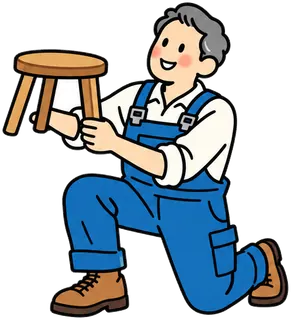
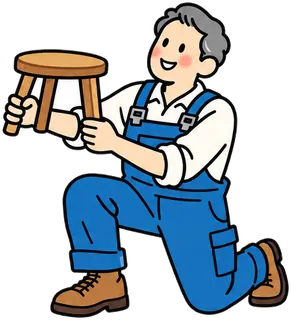
椅子を支える右手を修正し背景画像を優先して読み込む

diff --git a/index.html b/index.html
@@ -1000,6 +1000,7 @@ a.home-detail-link:hover .detail-arrow{transform:translateX(4px);background:var(
 @media(prefers-reduced-motion:reduce){.actor-face{transition:none}}
 
 </style>
+<link rel="preload" as="image" type="image/avif" href="assets/illustrations/hero-toyama-sm.avif" media="(max-width:700px)">
 </head>
 <body data-nav="B">
 <a class="skip-link" href="#main">本文へスキップ</a>
@@ -1047,10 +1048,10 @@ a.home-detail-link:hover .detail-arrow{transform:translateX(4px);background:var(
 <section class="hero" id="top">
   <div class="hero-stage">
     <div class="hero-scene" aria-hidden="true">
-      <picture class="hero-town"><source media="(max-width:700px)" type="image/avif" srcset="assets/illustrations/hero-toyama-sm.avif"><source type="image/avif" srcset="assets/illustrations/hero-toyama.avif"><source media="(max-width:700px)" type="image/webp" srcset="assets/illustrations/hero-toyama-sm.webp"><img src="assets/illustrations/hero-toyama.webp" width="1920" height="640" alt="" decoding="async" loading="lazy"></picture>
+      <picture class="hero-town"><source media="(max-width:700px)" type="image/avif" srcset="assets/illustrations/hero-toyama-sm.avif"><source type="image/avif" srcset="assets/illustrations/hero-toyama.avif"><source media="(max-width:700px)" type="image/webp" srcset="assets/illustrations/hero-toyama-sm.webp"><img src="assets/illustrations/hero-toyama.webp" width="1920" height="640" alt="" decoding="async" loading="eager" fetchpriority="high"></picture>
       <div class="hero-actor actor-seated" style="--person-ratio:462/567"><picture class="hero-media"><source media="(max-width:700px)" type="image/avif" srcset="assets/illustrations/hero-crowd-seated-sm.avif"><source type="image/avif" srcset="assets/illustrations/hero-crowd-seated.avif"><source media="(max-width:700px)" type="image/webp" srcset="assets/illustrations/hero-crowd-seated-sm.webp"><img class="actor-sprite" src="assets/illustrations/hero-crowd-seated.webp" width="462" height="567" alt="" decoding="async" loading="lazy"></picture><img class="actor-face" src="assets/illustrations/hero-face-seated.webp" width="55" height="63" alt="" decoding="async" loading="lazy" style="left:29.653679653679653%;top:10.582010582010582%;width:11.904761904761903%;height:11.11111111111111%;border-radius:35%"></div>
       <div class="hero-actor actor-wave" style="--person-ratio:421/640"><picture class="hero-media"><source media="(max-width:700px)" type="image/avif" srcset="assets/illustrations/hero-crowd-wave-sm.avif"><source type="image/avif" srcset="assets/illustrations/hero-crowd-wave.avif"><source media="(max-width:700px)" type="image/webp" srcset="assets/illustrations/hero-crowd-wave-sm.webp"><img class="actor-sprite" src="assets/illustrations/hero-crowd-wave.webp" width="421" height="640" alt="" decoding="async" loading="lazy"></picture><img class="actor-face" src="assets/illustrations/hero-face-wave.webp" width="57" height="62" alt="" decoding="async" loading="lazy" style="left:34.204275534441805%;top:16.25%;width:13.539192399049881%;height:9.6875%;border-radius:35%"></div>
-      <div class="hero-actor actor-kneel" style="--person-ratio:504/555"><picture class="hero-media"><source media="(max-width:700px)" type="image/avif" srcset="assets/illustrations/hero-crowd-kneel-sm.avif"><source type="image/avif" srcset="assets/illustrations/hero-crowd-kneel.avif"><source media="(max-width:700px)" type="image/webp" srcset="assets/illustrations/hero-crowd-kneel-sm.webp"><img class="actor-sprite" src="assets/illustrations/hero-crowd-kneel.webp" width="504" height="555" alt="" decoding="async" loading="lazy"></picture><img class="actor-face" src="assets/illustrations/hero-face-kneel.webp" width="57" height="66" alt="" decoding="async" loading="lazy" style="left:53.96825396825397%;top:10.45045045045045%;width:11.30952380952381%;height:11.891891891891893%;border-radius:35%"></div>
+      <div class="hero-actor actor-kneel" style="--person-ratio:505/555"><picture class="hero-media"><source media="(max-width:700px)" type="image/avif" srcset="assets/illustrations/hero-crowd-kneel-sm.avif"><source type="image/avif" srcset="assets/illustrations/hero-crowd-kneel.avif"><source media="(max-width:700px)" type="image/webp" srcset="assets/illustrations/hero-crowd-kneel-sm.webp"><img class="actor-sprite" src="assets/illustrations/hero-crowd-kneel.webp" width="505" height="555" alt="" decoding="async" loading="lazy"></picture><img class="actor-face" src="assets/illustrations/hero-face-kneel.webp" width="57" height="66" alt="" decoding="async" loading="lazy" style="left:54.05940594059406%;top:10.45045045045045%;width:11.287128712871288%;height:11.891891891891893%;border-radius:35%"></div>
       <div class="hero-actor actor-garden" style="--person-ratio:487/466"><picture class="hero-media"><source media="(max-width:700px)" type="image/avif" srcset="assets/illustrations/hero-crowd-garden-sm.avif"><source type="image/avif" srcset="assets/illustrations/hero-crowd-garden.avif"><source media="(max-width:700px)" type="image/webp" srcset="assets/illustrations/hero-crowd-garden-sm.webp"><img class="actor-sprite" src="assets/illustrations/hero-crowd-garden.webp" width="487" height="466" alt="" decoding="async" loading="lazy"></picture><img class="actor-face" src="assets/illustrations/hero-face-garden.webp" width="48" height="59" alt="" decoding="async" loading="lazy" style="left:43.737166324435314%;top:11.373390557939913%;width:9.856262833675565%;height:12.660944206008583%;border-radius:35%"></div>
       <div class="hero-actor actor-cafe" style="--person-ratio:438/814"><picture class="hero-media"><source media="(max-width:700px)" type="image/avif" srcset="assets/illustrations/hero-crowd-cafe-sm.avif"><source type="image/avif" srcset="assets/illustrations/hero-crowd-cafe.avif"><source media="(max-width:700px)" type="image/webp" srcset="assets/illustrations/hero-crowd-cafe-sm.webp"><img class="actor-sprite" src="assets/illustrations/hero-crowd-cafe.webp" width="438" height="814" alt="" decoding="async" loading="lazy"></picture></div>
       <div class="hero-actor actor-delivery" style="--person-ratio:646/773"><picture class="hero-media"><source media="(max-width:700px)" type="image/avif" srcset="assets/illustrations/hero-crowd-delivery-sm.avif"><source type="image/avif" srcset="assets/illustrations/hero-crowd-delivery.avif"><source media="(max-width:700px)" type="image/webp" srcset="assets/illustrations/hero-crowd-delivery-sm.webp"><img class="actor-sprite" src="assets/illustrations/hero-crowd-delivery.webp" width="646" height="773" alt="" decoding="async" loading="lazy"></picture></div>
